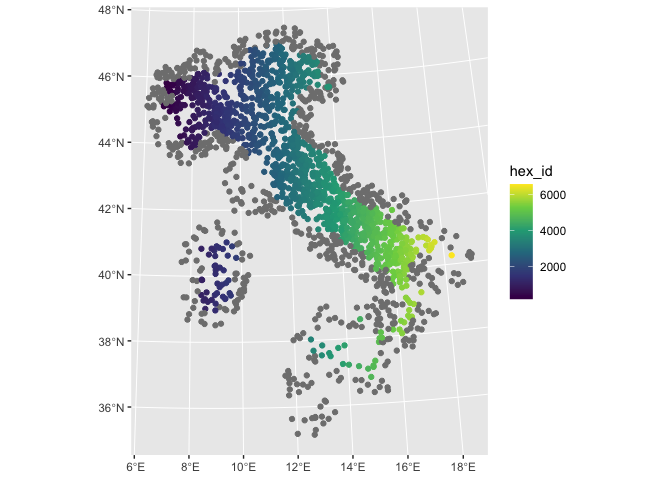
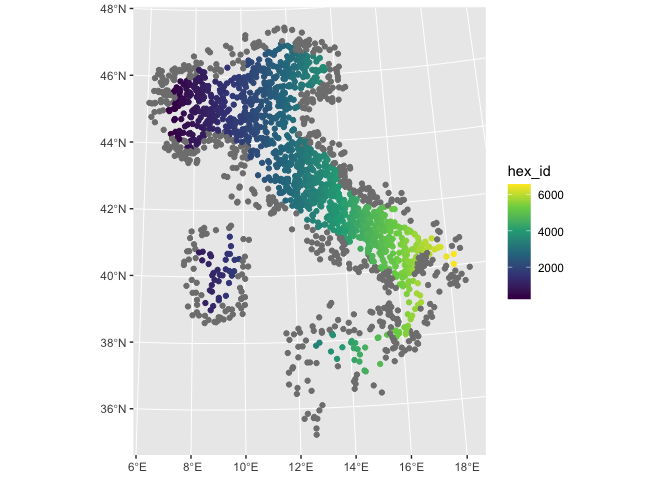
Minor

diff --git a/README.md b/README.md
@@ -1,3 +1,5 @@
+Make a grid and intersect points with the sf package
+================
 Francesco Bailo (<francesco.bailo@sydney.edu.au>)
 
 ## Package for spatial analysis
@@ -218,16 +220,16 @@ point_intersection.list
     ## Sparse geometry binary predicate list of length 2000, where the
     ## predicate was `intersects'
     ## first 10 elements:
-    ##  1: (empty)
-    ##  2: 300
+    ##  1: 118
+    ##  2: 59
     ##  3: (empty)
-    ##  4: (empty)
-    ##  5: 322
-    ##  6: 81
-    ##  7: 39
-    ##  8: (empty)
-    ##  9: 280
-    ##  10: (empty)
+    ##  4: 76
+    ##  5: 192
+    ##  6: (empty)
+    ##  7: (empty)
+    ##  8: 282
+    ##  9: 97
+    ##  10: 415
 
 Let’s make sure we don’t lose any point in the conversion from list to
 vector in case they are out of the intersecting area (here the area of
@@ -247,16 +249,16 @@ point_intersection.list
     ## Sparse geometry binary predicate list of length 2000, where the
     ## predicate was `intersects'
     ## first 10 elements:
-    ##  1: NA
-    ##  2: 300
+    ##  1: 118
+    ##  2: 59
     ##  3: NA
-    ##  4: NA
-    ##  5: 322
-    ##  6: 81
-    ##  7: 39
-    ##  8: NA
-    ##  9: 280
-    ##  10: NA
+    ##  4: 76
+    ##  5: 192
+    ##  6: NA
+    ##  7: NA
+    ##  8: 282
+    ##  9: 97
+    ##  10: 415
 
 Then we can add the resulting `italy_hex_cropped.sf$hex_id` to
 `random_pnt.sf`.
@@ -273,15 +275,15 @@ head(random_pnt.sf)
     ## Simple feature collection with 6 features and 2 fields
     ## Geometry type: POINT
     ## Dimension:     XY
-    ## Bounding box:  xmin: 328665.1 ymin: 4959875 xmax: 508969.5 ymax: 5180322
+    ## Bounding box:  xmin: 303389.3 ymin: 4930125 xmax: 451187.8 ymax: 5163356
     ## Projected CRS: WGS 84 / UTM zone 32N
     ##   pnt_id            random_pnt.sf hex_id
-    ## 1      1 POINT (446493.6 5180322)     NA
-    ## 2      2 POINT (495631.4 4987881)   1341
-    ## 3      3 POINT (328665.1 4959875)     NA
-    ## 4      4   POINT (465743 5170824)     NA
-    ## 5      5 POINT (508969.5 5107513)   1396
-    ## 6      6 POINT (398072.9 5062274)    644
+    ## 1      1 POINT (429070.5 4931973)    839
+    ## 2      2   POINT (373757 5013787)    542
+    ## 3      3 POINT (303389.3 4980196)     NA
+    ## 4      4 POINT (388447.9 4930125)    639
+    ## 5      5 POINT (451187.8 4989163)   1041
+    ## 6      6 POINT (418223.4 5163356)     NA
 
 ``` r
 random_pnt.sf %>%
